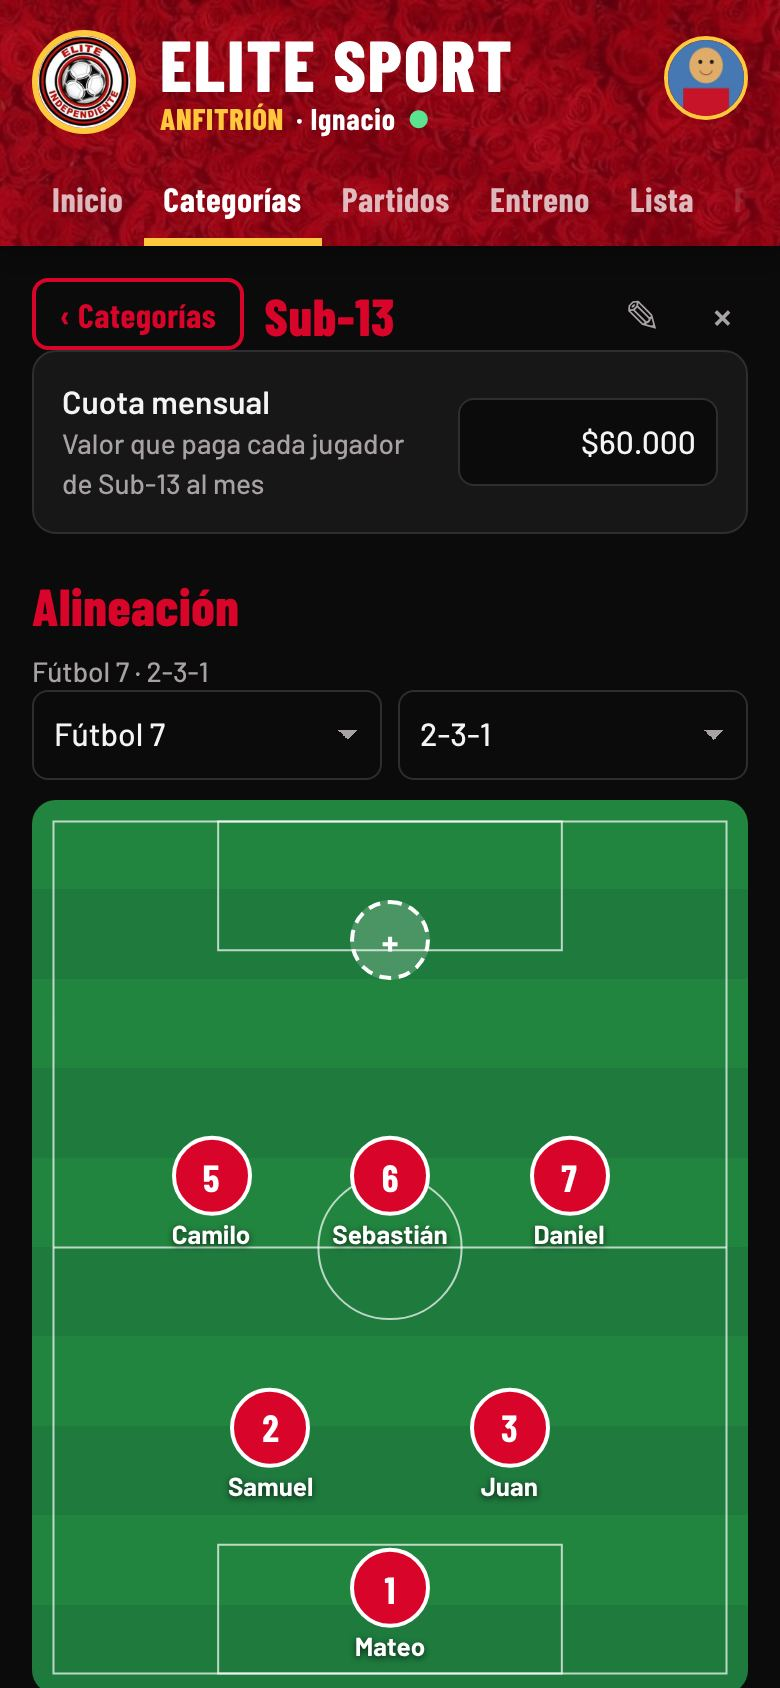
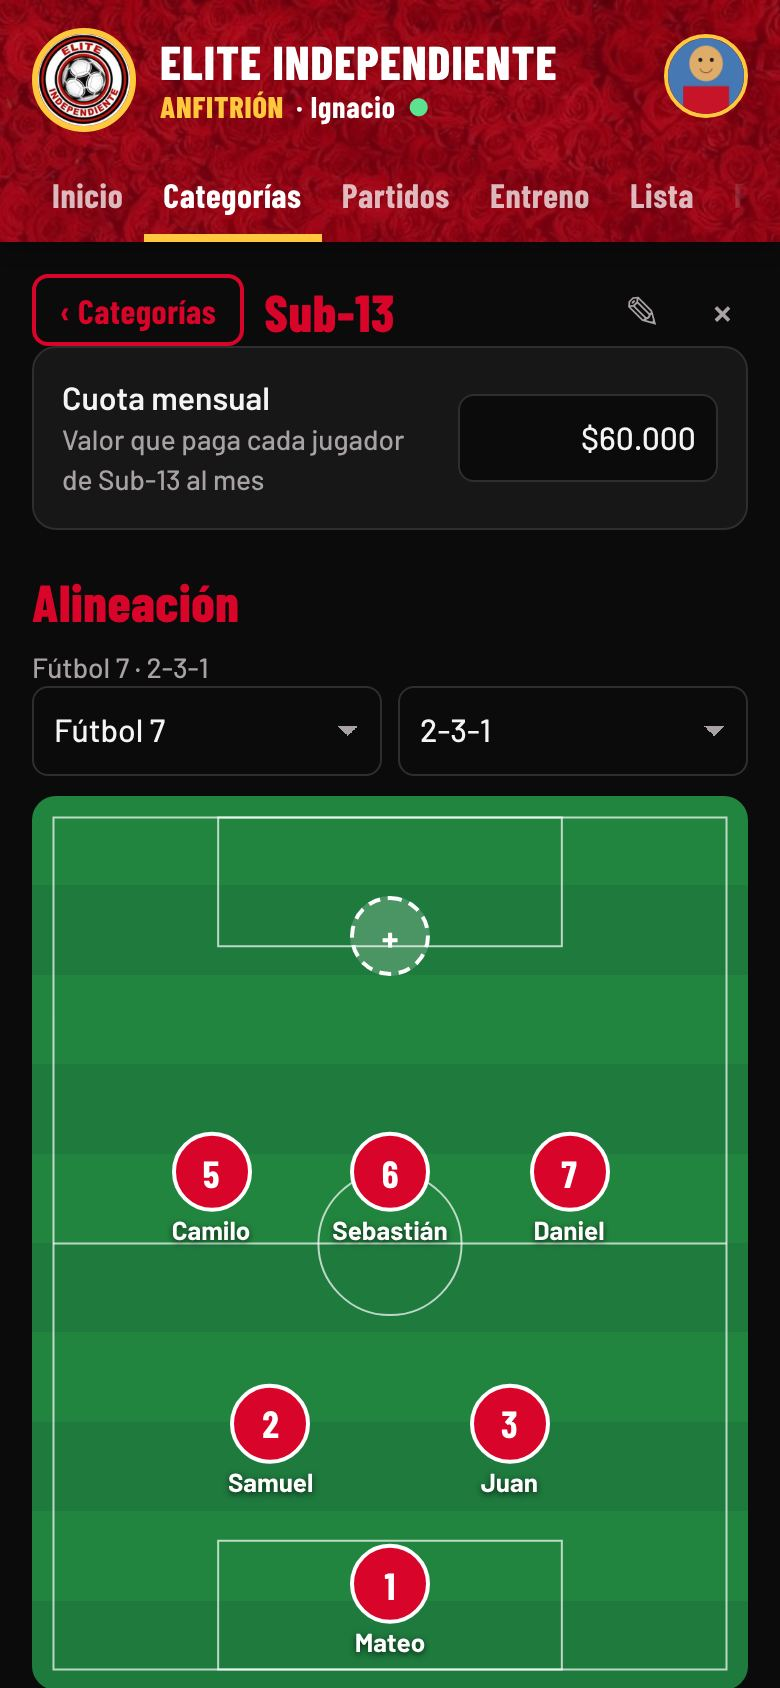
Elite Sport → Elite Independiente en toda la app
Nombre, título, encabezado (ajustado a una línea en cualquier pantalla),
bienvenida, instalación, manifiesto, capturas, textos de pagos y copia de
seguridad, documentación. Se conservan los identificadores internos
(dirección, proyecto de Firebase, claves del aparato) para no perder sesiones.

Claude-Session: https://claude.ai/code/session_01HeSBezAbevtZ1Me2z9qcVC

diff --git a/js/actions.js b/js/actions.js
@@ -51,7 +51,7 @@ const ACT = {
     const ua = navigator.userAgent, ios = /iphone|ipad|ipod/i.test(ua) || (/Macintosh/.test(ua) && navigator.maxTouchPoints > 1);
     const inApp = /FBAN|FBAV|Instagram|WhatsApp|Line\/|; wv\)|GSA\//i.test(ua);
     const url = location.href.split('?')[0].split('#')[0];
-    sheet(`<div class="name center">Instalar Elite Sport</div>${inApp ? `<div class="card note" style="margin-top:10px">Estás viendo la app dentro de otra aplicación. Primero ábrela en ${ios ? '<b>Safari</b>' : '<b>Chrome</b>'}: toca los tres puntos o el botón de compartir y elige «Abrir en el navegador». Dirección: <b>${esc(url)}</b></div>` : ''}<ol class="steps">${ios
+    sheet(`<div class="name center">Instalar Elite Independiente</div>${inApp ? `<div class="card note" style="margin-top:10px">Estás viendo la app dentro de otra aplicación. Primero ábrela en ${ios ? '<b>Safari</b>' : '<b>Chrome</b>'}: toca los tres puntos o el botón de compartir y elige «Abrir en el navegador». Dirección: <b>${esc(url)}</b></div>` : ''}<ol class="steps">${ios
       ? '<li>Abre la app en <b>Safari</b>.</li><li>Toca el botón <b>Compartir</b> (cuadro con flecha hacia arriba).</li><li>Elige <b>Agregar a pantalla de inicio</b> y luego <b>Agregar</b>.</li>'
       : '<li>Abre la app en <b>Chrome</b>. Si arriba a la izquierda ves una <b>✕</b>, estás dentro de otra app: toca los tres puntos y elige <b>Abrir en Chrome</b>.</li><li>Toca los <b>tres puntos</b> (arriba a la derecha).</li><li>Elige <b>Instalar app</b>, o «Agregar a la pantalla principal» y luego <b>Instalar</b> (no «Crear acceso directo»).</li>'}</ol><div class="mute small">Queda como una app más, con el escudo del club. Tu sesión y tus datos se conservan al instalarla.</div>`);
   },
@@ -220,7 +220,7 @@ const ACT = {
   sharepay: () => {
     const ym = U.month;
     const ps = players().filter(p => (!U.pcat || p.cat === U.pcat) && !paidOf(p.id, ym)).sort((a, b) => byName(cname(a.cat), cname(b.cat)) || byName(a.name, b.name));
-    const txt = `⚽ Elite Sport · Pagos de ${monthName(ym).toLowerCase()}${U.pcat ? ' · ' + cname(U.pcat) : ''}\n` +
+    const txt = `⚽ Elite Independiente · Pagos de ${monthName(ym).toLowerCase()}${U.pcat ? ' · ' + cname(U.pcat) : ''}\n` +
       (ps.length ? `Pendientes (${ps.length}):\n` + ps.map(p => `• ${p.name}${U.pcat ? '' : ' (' + cname(p.cat) + ')'}${feeOf(p.cat) ? ' — $' + feeOf(p.cat).toLocaleString('es-CO') : ''}`).join('\n') : '¡Todos están al día! 🎉');
     if (navigator.share) navigator.share({ text: txt }).catch(() => {});
     else { try { navigator.clipboard.writeText(txt); toast('Lista copiada. Pégala en WhatsApp.', { ok: true }); } catch (e) {} window.open('https://wa.me/?text=' + encodeURIComponent(txt), '_blank'); }

diff --git a/index.html b/index.html
@@ -3,14 +3,14 @@
 <head>
 <meta charset="utf-8">
 <meta name="viewport" content="width=device-width, initial-scale=1, viewport-fit=cover">
-<title>Elite Sport</title>
-<meta name="description" content="App del club Elite Sport: categorías, partidos, entrenamientos, asistencia y pagos.">
+<title>Elite Independiente</title>
+<meta name="description" content="App del club Elite Independiente: categorías, partidos, entrenamientos, asistencia y pagos.">
 <meta name="theme-color" content="#7A0012">
 <meta name="mobile-web-app-capable" content="yes">
 <meta name="apple-mobile-web-app-capable" content="yes">
 <meta name="apple-mobile-web-app-status-bar-style" content="black-translucent">
-<meta name="apple-mobile-web-app-title" content="Elite Sport">
-<meta property="og:title" content="Elite Sport">
+<meta name="apple-mobile-web-app-title" content="Elite Independiente">
+<meta property="og:title" content="Elite Independiente">
 <meta property="og:description" content="App del club: partidos, entrenamientos, asistencia y pagos.">
 <meta property="og:image" content="https://igaviria0001-ops.github.io/elite-sport/assets/icon-512.png">
 <link rel="manifest" href="manifest.webmanifest">
@@ -25,14 +25,14 @@
 <body class="gated">
 <header>
   <div class="brand">
-    <div class="crest"><img src="assets/escudo.jpg" alt="Escudo Elite"></div>
-    <div class="grow"><h1>ELITE SPORT</h1><div id="role" class="rolebadge"></div></div>
+    <div class="crest"><img src="assets/escudo.jpg" alt="Escudo Elite Independiente"></div>
+    <div class="grow"><h1>ELITE INDEPENDIENTE</h1><div id="role" class="rolebadge"></div></div>
     <div id="me"></div>
   </div>
   <nav id="nav" aria-label="Secciones"></nav>
 </header>
 <main id="app"><div class="splash"><img src="assets/escudo.jpg" alt=""><div>Cargando…</div></div></main>
-<noscript><p style="padding:20px;text-align:center">Elite Sport necesita JavaScript activado.</p></noscript>
+<noscript><p style="padding:20px;text-align:center">Elite Independiente necesita JavaScript activado.</p></noscript>
 <script type="module" src="js/main.js"></script>
 <script>
 // Si la app no arranca en 15 s (por ejemplo, una actualización a medio descargar), ofrece repararla.

diff --git a/js/views.js b/js/views.js
@@ -1,4 +1,4 @@
-// Pantallas de Elite Sport (HTML). Solo dibujan; las acciones están en actions.js.
+// Pantallas de Elite Independiente (HTML). Solo dibujan; las acciones están en actions.js.
 import * as B from './backend.js';
 import { D, U, R, cats, C, P, cname, players, myPlayer, userOf, photoOf, users, pendingUsers, feeOf, paidOf, nameMatch, isHostUser, playerOfUser, list } from './state.js';
 import { esc, ymd, today, fmtDay, fmtShort, fmtTime, monthName, monthShort, addMonth, ago, stamp, money, slug, initials, firstName, byName, cap, thisMonth } from './util.js';
@@ -85,7 +85,7 @@ export function navHtml() {
 
 // ── Bienvenida / registro ───────────────────────────────────────────────────
 export function gateHead(sub) {
-  return `<div class="gate"><button class="hostkey" data-act="hostkey" aria-label="Acceso de anfitrión">🔑</button><img src="assets/escudo.jpg" alt="Escudo Elite Sport"><div class="gt">ELITE SPORT</div><div class="gs">${sub}</div></div>`;
+  return `<div class="gate"><button class="hostkey" data-act="hostkey" aria-label="Acceso de anfitrión">🔑</button><img src="assets/escudo.jpg" alt="Escudo Elite Independiente"><div class="gt">ELITE INDEPENDIENTE</div><div class="gs">${sub}</div></div>`;
 }
 function installCard() {
   if (isApp()) return '';
@@ -147,7 +147,7 @@ export function vInicio() {
   }
   const up = upMatches(fc)[0];
   if (up) h += heroMatch(up);
-  else if (R.host) h += `<div class="card hero"><div class="big">Bienvenido, Elite Sport</div><small>${cats().length ? 'No hay partidos programados.' : 'Crea tus categorías y agrega a tus jugadores.'}</small></div>`;
+  else if (R.host) h += `<div class="card hero"><div class="big">Bienvenido, Elite Independiente</div><small>${cats().length ? 'No hay partidos programados.' : 'Crea tus categorías y agrega a tus jugadores.'}</small></div>`;
   const nt = upTrain(fc)[0];
   if (nt) h += trainMini(nt);
   h += '<h2>Categorías</h2>';

diff --git a/css/app.css b/css/app.css
@@ -1,4 +1,4 @@
-/* Elite Sport — estilos (mismo diseño de la app original, ampliado) */
+/* Elite Independiente — estilos (mismo diseño de la app original, ampliado) */
 @font-face{font-family:"Barlow Condensed";font-weight:600;font-display:swap;src:url(../assets/fonts/barlow-condensed-latin-600-normal.woff2) format("woff2")}
 @font-face{font-family:"Barlow Condensed";font-weight:700;font-display:swap;src:url(../assets/fonts/barlow-condensed-latin-700-normal.woff2) format("woff2")}
 @font-face{font-family:"Barlow Condensed";font-weight:800;font-display:swap;src:url(../assets/fonts/barlow-condensed-latin-800-normal.woff2) format("woff2")}
@@ -18,7 +18,7 @@ header{background:linear-gradient(rgba(141,0,20,.62),rgba(141,0,20,.72)),url(../
 .brand{display:flex;align-items:center;gap:12px;margin-bottom:10px;max-width:640px;margin-left:auto;margin-right:auto}
 .crest{width:52px;height:52px;border-radius:50%;background:#fff;border:3px solid var(--gold);overflow:hidden;flex:none}
 .crest img{width:100%;height:100%;object-fit:cover;display:block}
-h1{font:800 36px/1 var(--cond);margin:0;letter-spacing:1px}
+h1{font:800 clamp(19px,6.1vw,34px)/1.05 var(--cond);margin:0 0 2px;letter-spacing:.5px;white-space:nowrap}
 .rolebadge{font:700 15px var(--cond);color:#fff;letter-spacing:.4px;min-height:18px;display:flex;align-items:center;gap:6px;flex-wrap:wrap}
 .gold{color:var(--gold)}
 .sync{font:700 13px var(--cond);letter-spacing:.3px}

diff --git a/js/onboard.js b/js/onboard.js
@@ -170,11 +170,11 @@ export function profileSheet(render) {
     else if (k === 'backup') {
       b.disabled = true; b.textContent = 'Preparando…';
       try {
-        const cols = ['cats', 'players', 'matches', 'rivals', 'train', 'kits', 'users', 'att', 'pay', 'log'], data = { app: 'Elite Sport', fecha: new Date().toISOString() };
+        const cols = ['cats', 'players', 'matches', 'rivals', 'train', 'kits', 'users', 'att', 'pay', 'log'], data = { app: 'Elite Independiente', fecha: new Date().toISOString() };
         for (const c of cols) data[c] = await B.getAll(c);
         const a = document.createElement('a');
         a.href = URL.createObjectURL(new Blob([JSON.stringify(data, null, 1)], { type: 'application/json' }));
-        a.download = 'elite-sport-copia-' + new Date().toISOString().slice(0, 10) + '.json';
+        a.download = 'elite-independiente-copia-' + new Date().toISOString().slice(0, 10) + '.json';
         document.body.appendChild(a); a.click(); setTimeout(() => { URL.revokeObjectURL(a.href); a.remove(); }, 2000);
         toast('Copia descargada (sin las fotos).', { ok: true });
       } catch (e) { toast('No se pudo preparar la copia. Revisa tu conexión.'); }

diff --git a/sw.js b/sw.js
@@ -1,4 +1,4 @@
-// Service worker de Elite Sport: abre la app aunque no haya internet.
+// Service worker de Elite Independiente: abre la app aunque no haya internet.
 // Primero intenta la red (así siempre se ve la última versión) y, si no hay
 // conexión, usa la copia guardada. Los datos del club los guarda Firebase aparte:
 // aquí solo se guardan los archivos de la app, nunca datos ni la sesión.
@@ -6,7 +6,7 @@
 // Ojo: todas las apps de igaviria0001-ops.github.io comparten el mismo espacio de
 // copias. Por eso esta solo borra SUS copias viejas (elite-sport-…) y se repara
 // sola si otra app las borra.
-const VERSION = 'elite-sport-8b1140634c';
+const VERSION = 'elite-sport-4a982632d4';
 const MINE = /^(elite-sport-|es-v\d)/;
 const SHELL = [
   './', 'index.html', 'manifest.webmanifest', 'css/app.css',

diff --git a/tools/firebase-bundle/fb-entry.js b/tools/firebase-bundle/fb-entry.js
@@ -1,4 +1,4 @@
-// Subconjunto de Firebase que usa Elite Sport (se empaqueta en js/vendor/firebase.js)
+// Subconjunto de Firebase que usa Elite Independiente (se empaqueta en js/vendor/firebase.js)
 export { initializeApp } from 'firebase/app';
 export { initializeAuth, indexedDBLocalPersistence, browserLocalPersistence, signInAnonymously, onAuthStateChanged } from 'firebase/auth';
 export {

diff --git a/js/main.js b/js/main.js
@@ -1,4 +1,4 @@
-// Arranque de Elite Sport: sesión, datos en vivo y dibujo de la pantalla.
+// Arranque de Elite Independiente: sesión, datos en vivo y dibujo de la pantalla.
 import * as B from './backend.js';
 import { D, U, R, C, cats, watchCore, watchRole, restoreHost, coreReady, onRedraw, syncSubs } from './state.js';
 import { VERSION } from './version.js';

diff --git a/js/util.js b/js/util.js
@@ -1,4 +1,4 @@
-// Utilidades comunes de Elite Sport.
+// Utilidades comunes de Elite Independiente.
 
 // ── Almacenamiento del aparato ──────────────────────────────────────────────
 // ?who=nombre separa "aparatos" en pruebas (varios usuarios en un mismo navegador).

diff --git a/js/backend.js b/js/backend.js
@@ -1,4 +1,4 @@
-// Capa de datos de Elite Sport.
+// Capa de datos de Elite Independiente.
 // Habla con Firestore (Firebase) usando su API modular. Si config.js está vacío,
 // usa local.js, que imita la misma API dentro del aparato (modo local / pruebas).
 import { FIREBASE } from './config.js';

diff --git a/js/version.js b/js/version.js
@@ -1,2 +1,2 @@
 // Generado por tools/version.mjs: no editar a mano.
-export const VERSION = '8b1140634c';
+export const VERSION = '4a982632d4';

diff --git a/CLAUDE.md b/CLAUDE.md
@@ -1,6 +1,6 @@
-# Elite Sport — instrucciones para cambios futuros
+# Elite Independiente — instrucciones para cambios futuros
 
-App web del club Elite Sport (aparte de GameHub). Vive en https://igaviria0001-ops.github.io/elite-sport/ (GitHub Pages, rama `main`, raíz). Datos en Firebase, proyecto `elite-sport-ea360` (Firestore + sesión anónima). El código de anfitrión vive solo en `firestore.rules` (nunca en el código de la app). Ignacio autorizó publicar `js/config.js` con los datos de Firebase en este repositorio público (esos datos no son secretos).
+App web del club Elite Independiente (aparte de GameHub). Vive en https://igaviria0001-ops.github.io/elite-sport/ (GitHub Pages, rama `main`, raíz). Datos en Firebase, proyecto `elite-sport-ea360` (Firestore + sesión anónima). El código de anfitrión vive solo en `firestore.rules` (nunca en el código de la app). Ignacio autorizó publicar `js/config.js` con los datos de Firebase en este repositorio público (esos datos no son secretos).
 
 ## Regla de oro: una actualización nunca puede borrar datos ni cerrar sesiones
 
